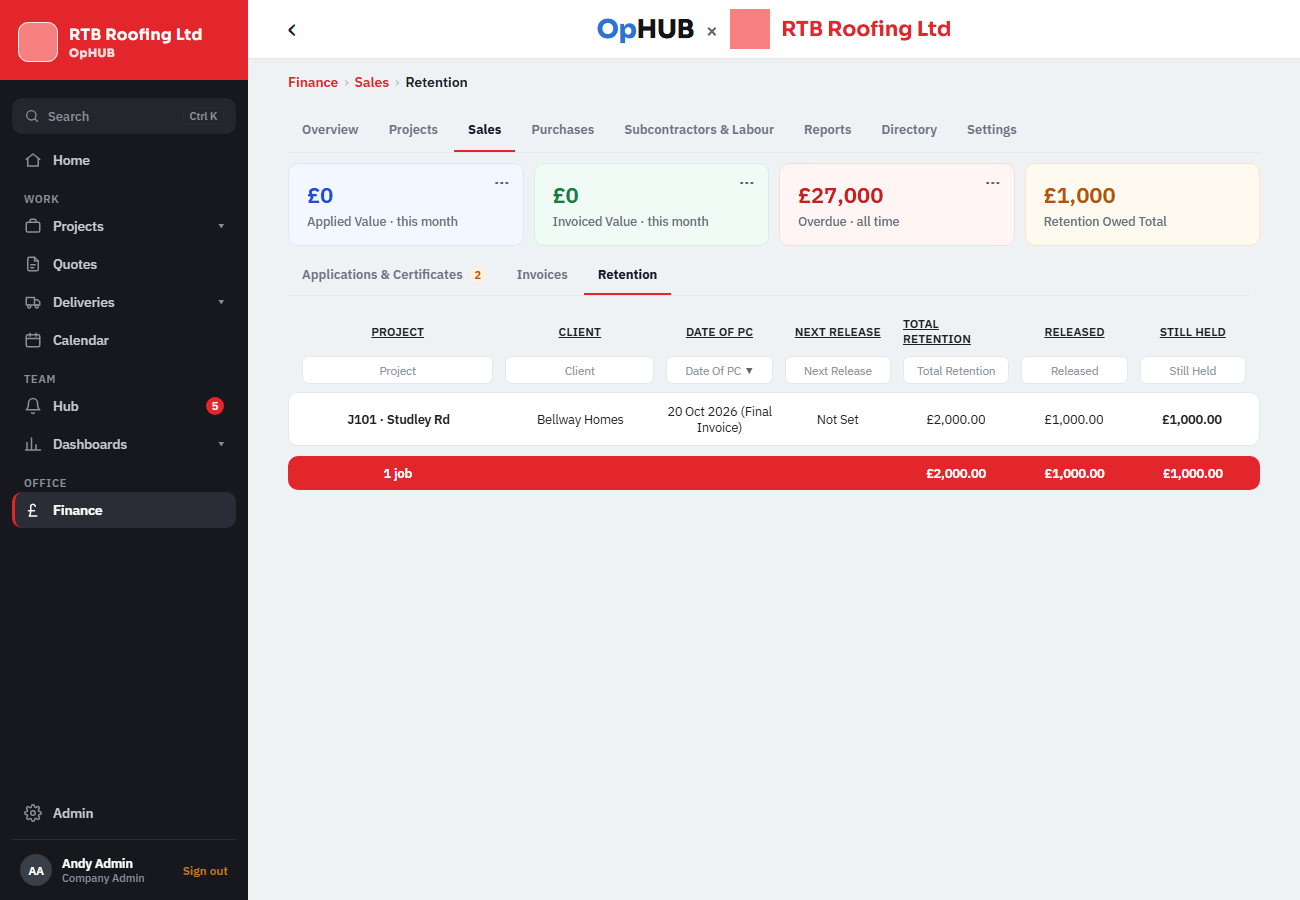
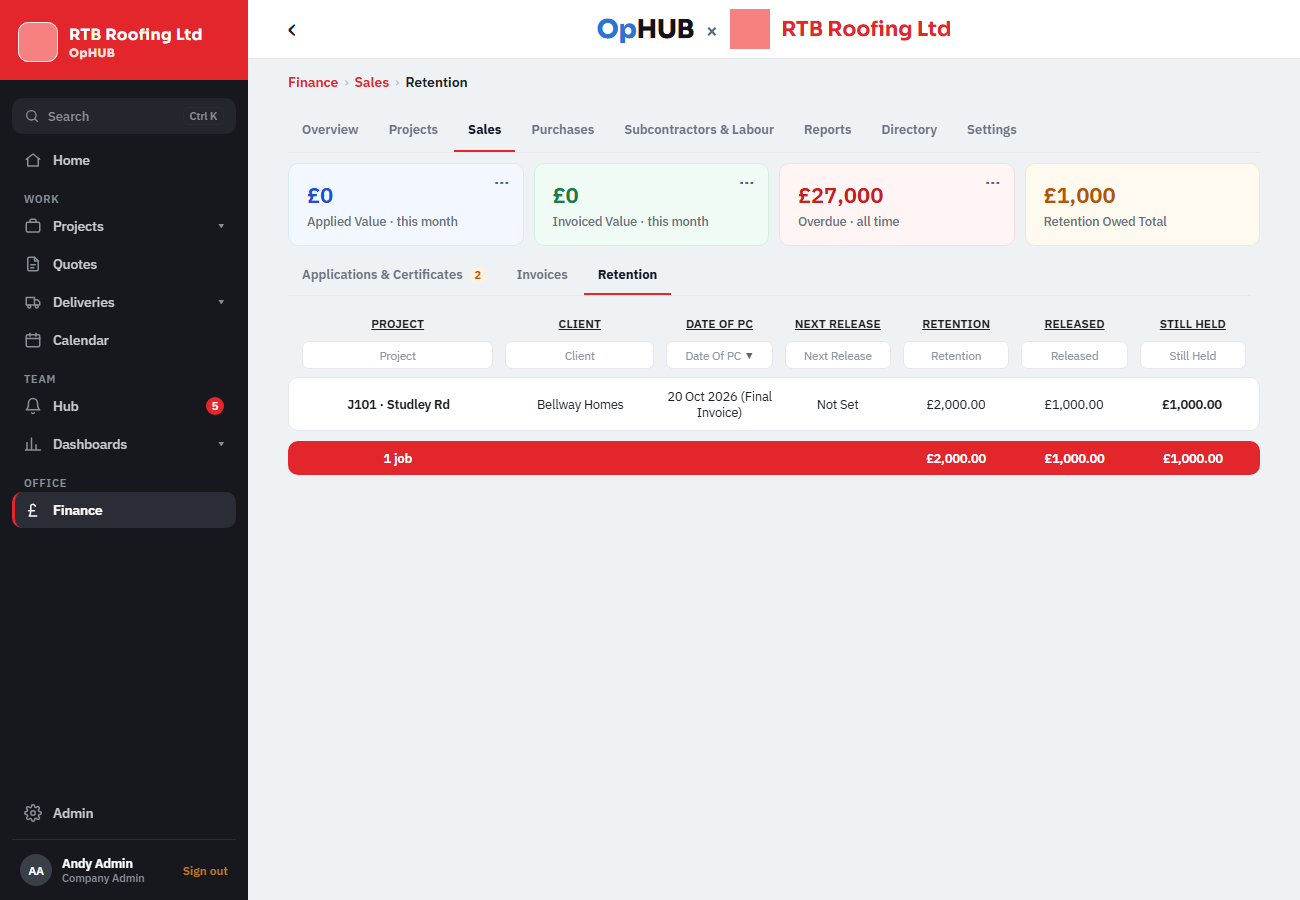
Finance tables: a heading that wraps onto two lines is centred like the rest; Retention's Total Retention column is now just Retention (Andy, 14 Nov). laptop14b-check 16/16.
Claude-Session: https://claude.ai/code/session_012KhfNvBEbifMJmPdX7yZfp

Changed region(s): [[0.2154, 0.3422, 0.9846, 0.56]]

diff --git a/app-native/src/components/FinSales.tsx b/app-native/src/components/FinSales.tsx
@@ -234,7 +234,7 @@ export function SalesLists({ tab, siteId, f: f0 }: { tab: 'apps' | 'invoices' | 
             // The practical completion date; for a closed job with none set, its final invoice date.
             { k: 'pc', l: 'Date Of PC', sort: (x) => x.pc.date, date: (x) => x.pc.date, render: (x) => <Cell>{x.pc.date ? `${fdate(x.pc.date)}${x.pc.final ? ' (Final Invoice)' : ''}` : '—'}</Cell> },
             { k: 'nx', l: 'Next Release', render: (x) => <Cell>{nextRelease(x)}</Cell> },
-            { k: 't', l: 'Total Retention', sort: (x) => x.tot, total: (l) => money(round2(l.reduce((t, x) => t + x.tot, 0))), render: (x) => <Cell>{money(x.tot)}</Cell> },
+            { k: 't', l: 'Retention', sort: (x) => x.tot, total: (l) => money(round2(l.reduce((t, x) => t + x.tot, 0))), render: (x) => <Cell>{money(x.tot)}</Cell> },
             { k: 'r', l: 'Released', sort: (x) => x.rel, total: (l) => money(round2(l.reduce((t, x) => t + x.rel, 0))), render: (x) => <Cell>{x.rel ? money(x.rel) : '—'}</Cell> },
             { k: 'h', l: 'Still Held', sort: (x) => x.held, total: (l) => money(round2(l.reduce((t, x) => t + x.held, 0))), render: (x) => <Cell bold>{money(x.held)}</Cell> },
           ]}

diff --git a/app-native/src/components/FinTable.tsx b/app-native/src/components/FinTable.tsx
@@ -131,7 +131,7 @@ export function FinTable<T>({ cols: allCols, rows, keyOf, onRow, foot, onMenu, d
           <View style={{ flexDirection: 'row', paddingVertical: 10, paddingHorizontal: 8 }}>
             {cols.map((c) => (
               <Pressable key={c.k} disabled={!c.l || c.noSort} onPress={() => setSort(nextSort(sort, c.k))} accessibilityRole={c.noSort ? undefined : 'button'} accessibilityLabel={c.noSort ? undefined : `Sort by ${c.l}${sort?.k === c.k ? (sort.dir === 'asc' ? ', A to Z' : ', Z to A') : ''}`} style={cell(c)}>
-                <Text style={{ fontSize: 11.5, fontWeight: '600', letterSpacing: 0.4, color: sort?.k === c.k ? t.brand1 : base.ink, textDecorationLine: 'underline', textTransform: 'uppercase' }}>{c.l}{sort?.k === c.k ? (sort.dir === 'asc' ? ' ▲' : ' ▼') : ''}</Text>
+                <Text style={{ fontSize: 11.5, fontWeight: '600', letterSpacing: 0.4, color: sort?.k === c.k ? t.brand1 : base.ink, textDecorationLine: 'underline', textTransform: 'uppercase', textAlign: 'center' }}>{c.l}{sort?.k === c.k ? (sort.dir === 'asc' ? ' ▲' : ' ▼') : ''}</Text>
               </Pressable>
             ))}
               {onMenu ? <View style={{ width: 32 }} /> : null}

diff --git a/tools/test-harness/laptop14b-check.js b/tools/test-harness/laptop14b-check.js
@@ -81,7 +81,7 @@ const check = (ok, what) => { console.log((ok ? 'PASS ' : 'FAIL ') + what); if (
   // ---- Retention ----
   await page.goto(B + '/fin/sales?tab=retention'); await page.waitForTimeout(5000);
   t = await body();
-  check(/Date Of PC/i.test(t) && /Total Retention/i.test(t) && /Released/i.test(t), 'retention: Date Of PC, Total Retention and Released columns');
+  check(/Date Of PC/i.test(t) && /Retention/i.test(t) && /Released/i.test(t), 'retention: Date Of PC, Retention and Released columns');
   check(/£2,000\.00/.test(t) && /£1,000\.00/.test(t) && /20 Oct 2026 \(Final Invoice\)/.test(t), 'retention: total £2,000, released £1,000, PC date from the final invoice on a closed job');
   await page.screenshot({path: path.join(SHOTS, 'laptop-retention.png')});
 
